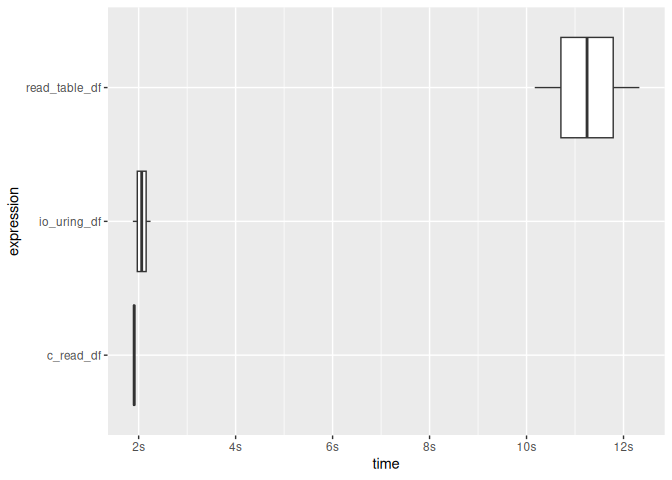
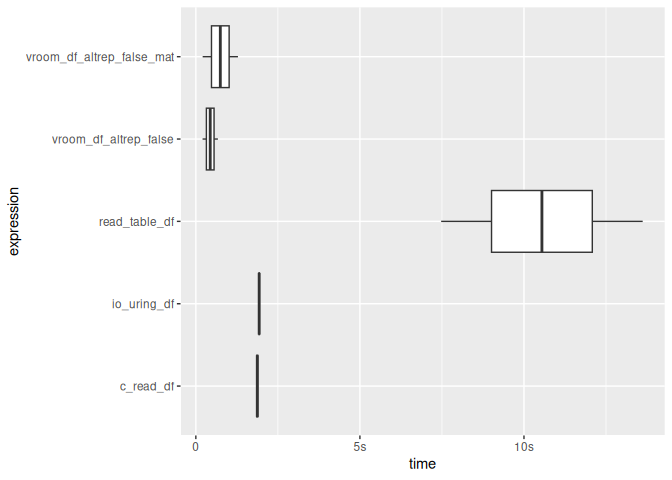
io_uring

diff --git a/README.md b/README.md
@@ -177,7 +177,7 @@ tcc_read_cstring(ptr)
 tcc_read_bytes(ptr, 5)
 #> [1] 68 65 6c 6c 6f
 tcc_ptr_addr(ptr, hex = TRUE)
-#> [1] "0x57797d7de120"
+#> [1] "0x5b33968647c0"
 tcc_ptr_is_null(ptr)
 #> [1] FALSE
 tcc_free(ptr)
@@ -208,11 +208,11 @@ through output parameters.
 ptr_ref <- tcc_malloc(.Machine$sizeof.pointer %||% 8L)
 target <- tcc_malloc(8)
 tcc_ptr_set(ptr_ref, target)
-#> <pointer: 0x57797f60a180>
+#> <pointer: 0x5b33968647c0>
 tcc_data_ptr(ptr_ref)
-#> <pointer: 0x57797cb876c0>
+#> <pointer: 0x5b339677ffd0>
 tcc_ptr_set(ptr_ref, tcc_null_ptr())
-#> <pointer: 0x57797f60a180>
+#> <pointer: 0x5b33968647c0>
 tcc_free(target)
 #> NULL
 tcc_free(ptr_ref)
@@ -275,8 +275,8 @@ bench::mark(
 #> # A tibble: 2 × 6
 #>   expression      min   median `itr/sec` mem_alloc `gc/sec`
 #>   <bch:expr> <bch:tm> <bch:tm>     <dbl> <bch:byt>    <dbl>
-#> 1 Rtinycc       918ms    918ms      1.09   134.1MB    10.9 
-#> 2 Rbuiltin      537µs    577µs   1609.      9.05KB     8.00
+#> 1 Rtinycc       926ms    926ms      1.08   134.1MB    10.8 
+#> 2 Rbuiltin      558µs    591µs   1568.      9.05KB     8.00
 
 # For performance-sensitive code, move the loop into C and operate on arrays.
 ffi_vec <- tcc_ffi() |>
@@ -305,8 +305,8 @@ bench::mark(
 #> # A tibble: 2 × 6
 #>   expression        min   median `itr/sec` mem_alloc `gc/sec`
 #>   <bch:expr>   <bch:tm> <bch:tm>     <dbl> <bch:byt>    <dbl>
-#> 1 Rtinycc_vec    97.4µs  107.2µs     9204.    52.8KB     10.6
-#> 2 Rbuiltin_vec   16.9µs   17.7µs    45722.    78.2KB     54.9
+#> 1 Rtinycc_vec   100.9µs    108µs     9099.    52.8KB     8.36
+#> 2 Rbuiltin_vec   17.6µs   18.4µs    52675.    78.2KB    68.6
 ```
 
 ### Variadic calls (e.g. `Rprintf` style)
@@ -428,7 +428,7 @@ ffi <- tcc_ffi() |>
 
 x <- as.integer(1:100) # to avoid ALTREP
 .Internal(inspect(x))
-#> @57798b5f9df0 13 INTSXP g0c0 [REF(65535)]  1 : 100 (compact)
+#> @5b33a48043a8 13 INTSXP g0c0 [REF(65535)]  1 : 100 (compact)
 ffi$sum_array(x, length(x))
 #> [1] 5050
 
@@ -444,7 +444,7 @@ y[1]
 #> [1] 11
 
 .Internal(inspect(x))
-#> @57798b5f9df0 13 INTSXP g0c0 [REF(65535)]  11 : 110 (expanded)
+#> @5b33a48043a8 13 INTSXP g0c0 [REF(65535)]  11 : 110 (expanded)
 ```
 
 ### Benchmark
@@ -508,9 +508,9 @@ timings
 #> # A tibble: 3 × 6
 #>   expression      min   median `itr/sec` mem_alloc `gc/sec`
 #>   <bch:expr> <bch:tm> <bch:tm>     <dbl> <bch:byt>    <dbl>
-#> 1 R           602.3ms  602.9ms      1.66     844KB     0   
-#> 2 quickr       3.66ms    4.1ms    243.       782KB     3.62
-#> 3 Rtinycc     56.89ms   57.5ms     17.4      796KB     0
+#> 1 R          602.53ms 602.95ms      1.66     844KB     0   
+#> 2 quickr       3.75ms   4.17ms    239.       782KB     3.62
+#> 3 Rtinycc      57.1ms  58.23ms     17.0      796KB     0
 plot(timings, type = "boxplot") + bench::scale_x_bench_time(base = NULL)
 ```
 
@@ -538,15 +538,15 @@ ffi <- tcc_ffi() |>
 
 p1 <- ffi$struct_point_new()
 ffi$struct_point_set_x(p1, 0.0)
-#> <pointer: 0x577999555f40>
+#> <pointer: 0x5b33afe2db40>
 ffi$struct_point_set_y(p1, 0.0)
-#> <pointer: 0x577999555f40>
+#> <pointer: 0x5b33afe2db40>
 
 p2 <- ffi$struct_point_new()
 ffi$struct_point_set_x(p2, 3.0)
-#> <pointer: 0x577997cb8000>
+#> <pointer: 0x5b33a3c35a10>
 ffi$struct_point_set_y(p2, 4.0)
-#> <pointer: 0x577997cb8000>
+#> <pointer: 0x5b33a3c35a10>
 
 ffi$distance(p1, p2)
 #> [1] 5
@@ -591,9 +591,9 @@ ffi <- tcc_ffi() |>
 
 s <- ffi$struct_flags_new()
 ffi$struct_flags_set_active(s, 1L)
-#> <pointer: 0x57799a292440>
+#> <pointer: 0x5b33b3991790>
 ffi$struct_flags_set_level(s, 9L)
-#> <pointer: 0x57799a292440>
+#> <pointer: 0x5b33b3991790>
 ffi$struct_flags_get_active(s)
 #> [1] 1
 ffi$struct_flags_get_level(s)
@@ -885,7 +885,7 @@ ffi <- tcc_ffi() |>
   tcc_compile()
 
 ffi$struct_point_new()
-#> <pointer: 0x57799a5082e0>
+#> <pointer: 0x5b33b7426f60>
 ffi$enum_status_OK()
 #> [1] 0
 ffi$global_global_counter_get()
@@ -913,6 +913,8 @@ if (Sys.info()[["sysname"]] == "Linux") {
   df <- as.data.frame(mat)
   names(df) <- paste0("V", seq_len(n_cols))
   utils::write.table(df, file = tmp_csv, sep = ",", row.names = FALSE, col.names = TRUE, quote = FALSE)
+  csv_size_mb <- as.double(file.info(tmp_csv)$size) / 1024^2
+  message(sprintf("CSV size: %.2f MB", csv_size_mb))
 
   io_uring_src <- paste(readLines(c_file, warn = FALSE), collapse = "\n")
 
@@ -967,6 +969,17 @@ if (Sys.info()[["sysname"]] == "Linux") {
       )
       nrow(x)
     },
+     vroom_df_altrep_false_mat = {
+      vroom::vroom(
+        tmp_csv,
+        delim = ",",
+        altrep = FALSE,
+        col_types = vroom::cols(.default = "d"),
+        progress = FALSE,
+        show_col_types = FALSE
+      )
+      nrow(x)
+    },
     c_read_df = {
       x <- ffi$csv_table_read(tmp_csv, block_size, n_cols)
       nrow(x)
@@ -980,19 +993,14 @@ if (Sys.info()[["sysname"]] == "Linux") {
   )
 
   timings[, c("expression", "min", "median", "itr/sec", "mem_alloc")]
-} else {
-  message("Skipping io_uring demo on non-Linux host.")
+  plot(timings, type = "boxplot") + bench::scale_x_bench_time(base = NULL)
 }
+#> CSV size: 274.66 MB
 #> Warning: Some expressions had a GC in every iteration; so filtering is
 #> disabled.
-#> # A tibble: 4 × 5
-#>   expression                 min   median `itr/sec` mem_alloc
-#>   <bch:expr>            <bch:tm> <bch:tm>     <dbl> <bch:byt>
-#> 1 read_table_df             7.6s   10.53s    0.0950     494MB
-#> 2 vroom_df_altrep_false 215.12ms  405.1ms    2.47       122MB
-#> 3 c_read_df                1.85s    2.41s    0.416      122MB
-#> 4 io_uring_df              1.85s    1.85s    0.539      122MB
 ```
+
+<img src="man/figures/README-io_uring-demo-1.png" width="100%" />
 
 ## Known limitations
 
@@ -1040,11 +1048,11 @@ ffi <- tcc_ffi() |>
 o <- ffi$struct_outer_new()
 i <- ffi$struct_inner_new()
 ffi$struct_inner_set_a(i, 42L)
-#> <pointer: 0x57799baf21c0>
+#> <pointer: 0x5b3398213f20>
 
 # Write the inner pointer into the outer struct
 ffi$struct_outer_in_addr(o) |> tcc_ptr_set(i)
-#> <pointer: 0x577999160600>
+#> <pointer: 0x5b33a5886710>
 
 # Read it back through indirection
 ffi$struct_outer_in_addr(o) |>
@@ -1073,9 +1081,9 @@ ffi <- tcc_ffi() |>
 
 b <- ffi$struct_buf_new()
 ffi$struct_buf_set_data_elt(b, 0L, 0xCAL)
-#> <pointer: 0x57798f1b9390>
+#> <pointer: 0x5b33b354e3c0>
 ffi$struct_buf_set_data_elt(b, 1L, 0xFEL)
-#> <pointer: 0x57798f1b9390>
+#> <pointer: 0x5b33b354e3c0>
 ffi$struct_buf_get_data_elt(b, 0L)
 #> [1] 202
 ffi$struct_buf_get_data_elt(b, 1L)
